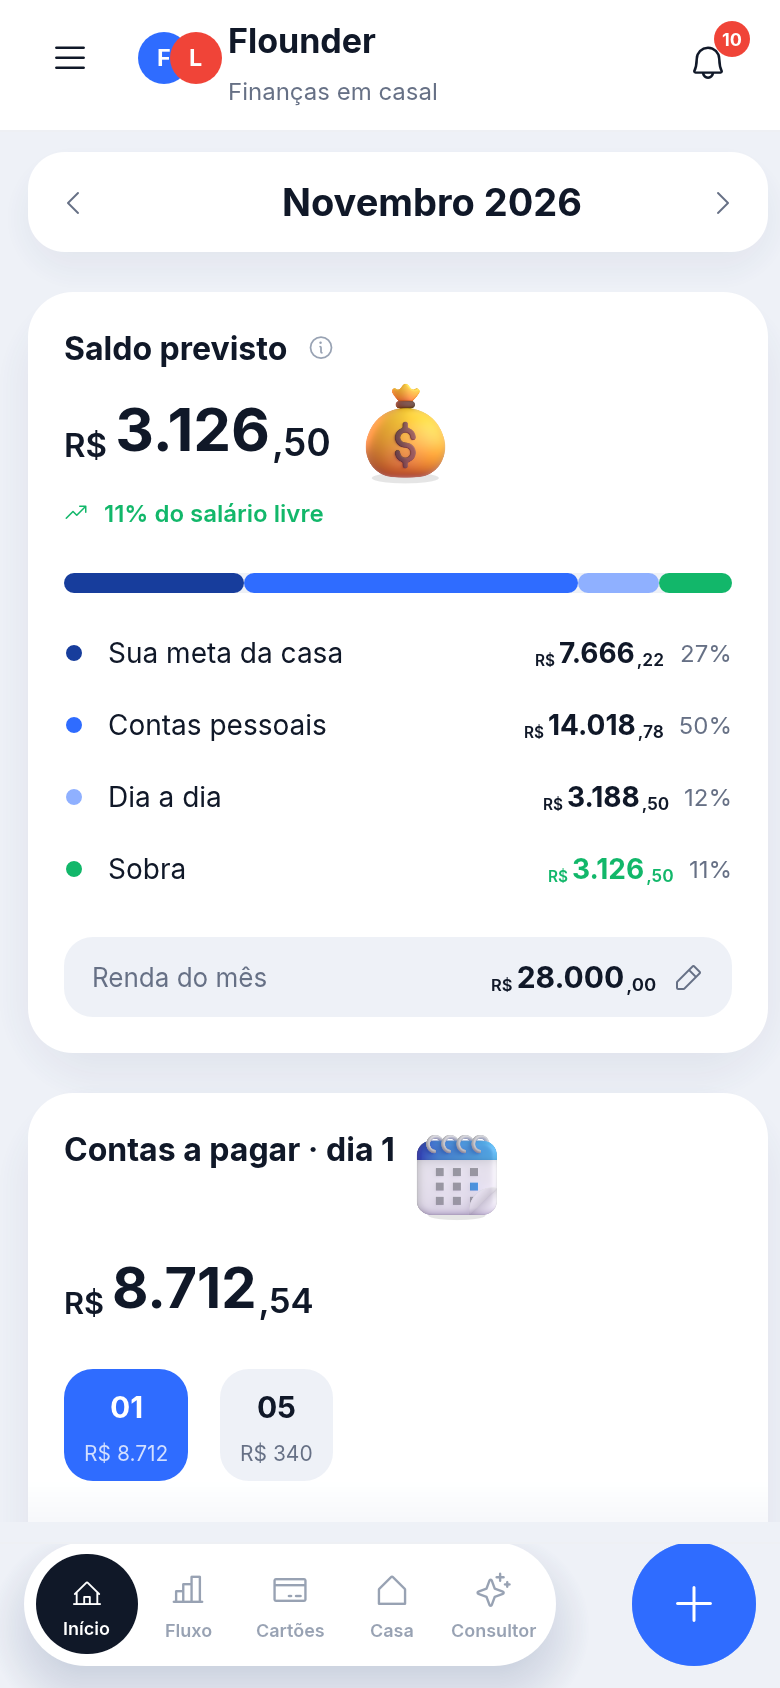
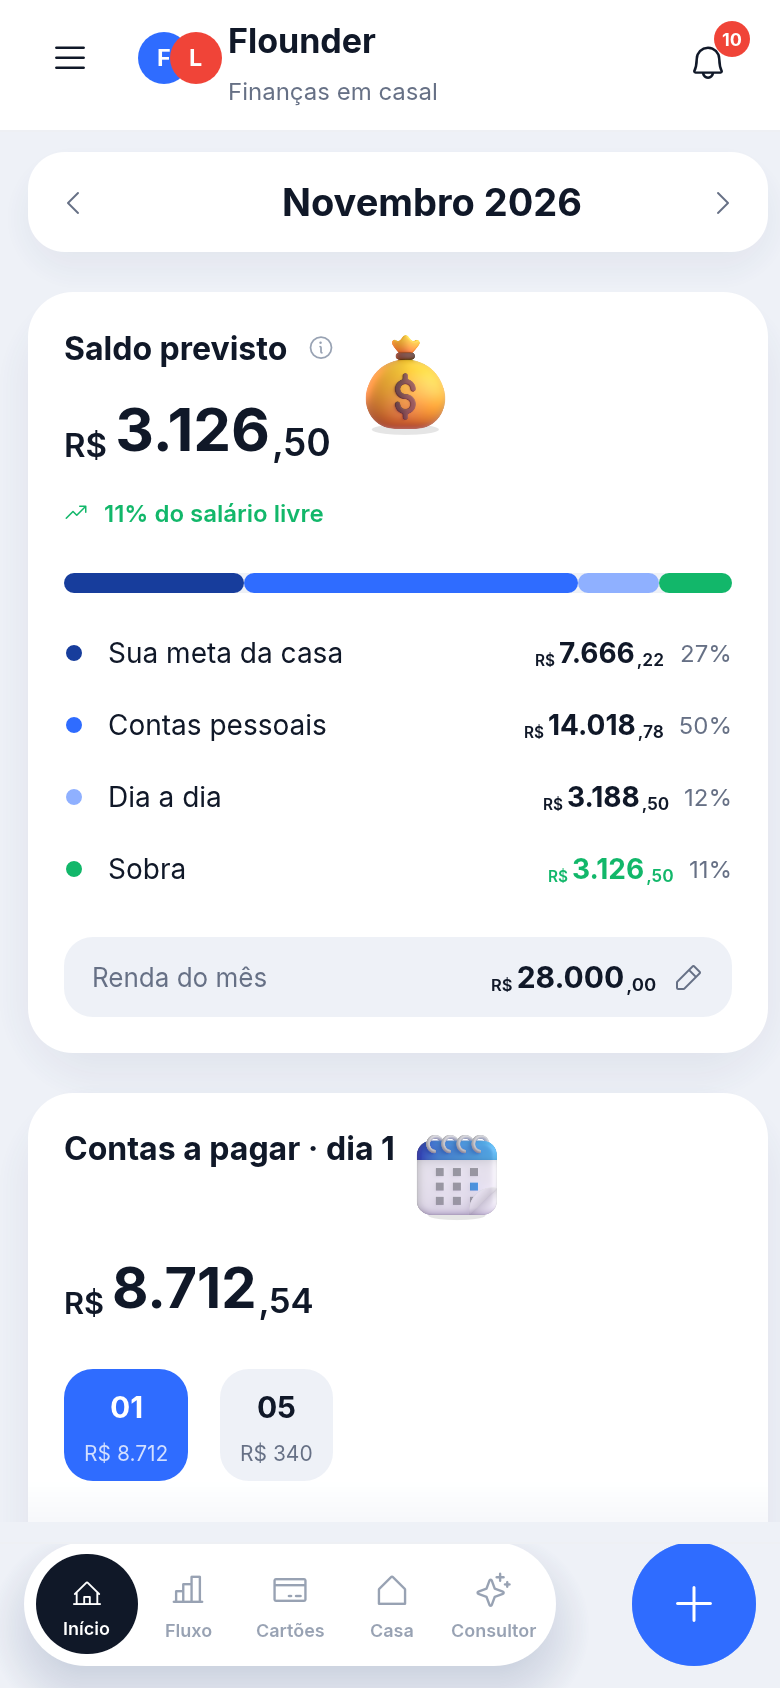
Mobile: ilustrações 3D alinhadas pelo topo com o título do card (Saldo previsto, Contas a pagar e resumo de Cartões)

Changed region(s): [[0.4615, 0.1848, 0.5846, 0.3081], [0.2769, 0.6777, 0.3385, 0.7085], [0.1846, 0.6777, 0.2154, 0.7085]]

diff --git a/mobile/src/screens/home.rs b/mobile/src/screens/home.rs
@@ -18,8 +18,8 @@ pub fn show(ui: &mut egui::Ui, app: &mut MobileApp) {
 fn card_saldo(ui: &mut egui::Ui, app: &mut MobileApp, c: &Cores) {
     let negativo = app.dados.saldo.centavos < 0;
     theme::card(ui, |ui| {
-        // Cabeçalho: título + ⓘ e o 👛 encostado no topo direito.
-        ui.horizontal(|ui| {
+        // Cabeçalho: título + ⓘ à esquerda; a ilustração 3D alinhada pelo topo com o título.
+        ui.with_layout(Layout::left_to_right(Align::TOP), |ui| {
             ui.vertical(|ui| {
                 ui.horizontal(|ui| {
                     ui.label(egui::RichText::new("Saldo previsto").font(w::bold(16.0)).color(c.ink));
@@ -131,7 +131,7 @@ fn card_pagar(ui: &mut egui::Ui, app: &mut MobileApp, c: &Cores) {
         .unwrap_or(app.dados.pagar.total_cents);
 
     theme::card(ui, |ui| {
-        ui.horizontal(|ui| {
+        ui.with_layout(Layout::left_to_right(Align::TOP), |ui| {
             ui.label(
                 egui::RichText::new(format!("Contas a pagar · dia {dia_sel}"))
                     .font(w::bold(16.0))

diff --git a/mobile/src/screens/cards.rs b/mobile/src/screens/cards.rs
@@ -28,7 +28,7 @@ pub fn show(ui: &mut egui::Ui, app: &mut MobileApp) {
                 );
             });
             ui.with_layout(Layout::right_to_left(Align::Center), |ui| {
-                ui.label(egui::RichText::new("💳").size(42.0));
+                w::art(ui, w::Art::Card, 46.0);
             });
         });
     });
